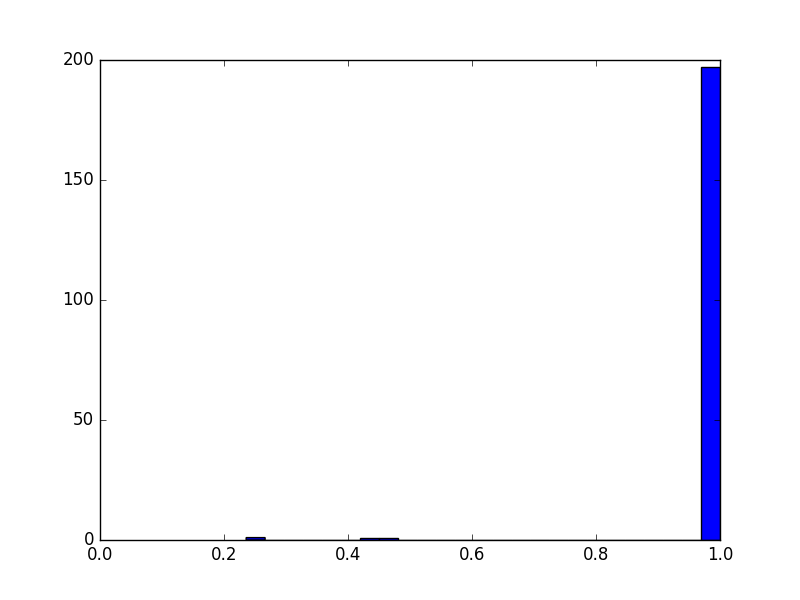
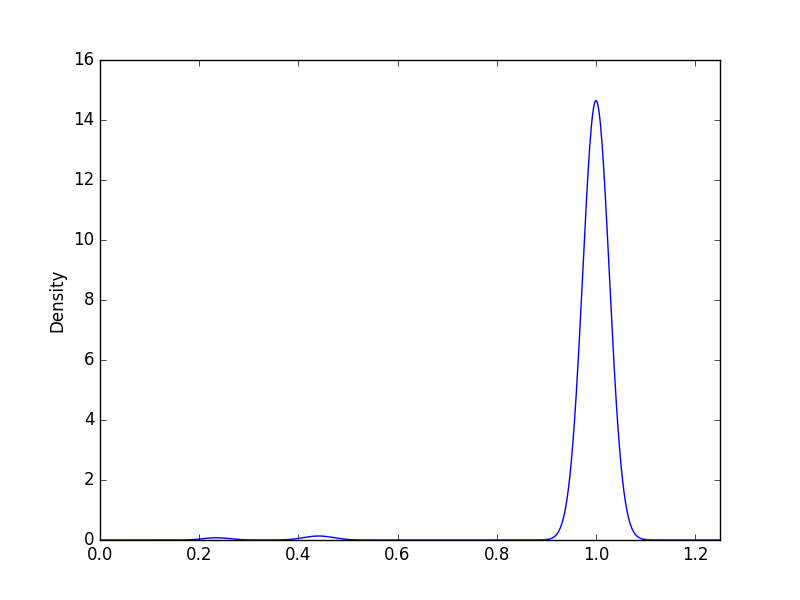
sync

diff --git a/lab/StructuredCode/ids/method/base.py b/lab/StructuredCode/ids/method/base.py
@@ -47,8 +47,6 @@ class imalgo(object):
         if len(labs) != 2:
             raise TypeError('must be 2-classes classification task')
         s.minolab, s.majlab = labs if counts[0] < counts[1] else labs[::-1]
-        s.imr = counts[0] * 1.0 / (counts[0] + counts[1])
-        if sum(counts)==351:
-            pass
-        if s.imr >= 0.5:
-            s.imr = 1 - s.imr
+        s.imr = counts[0] * 1.0 / counts[1]
+        if s.imr < 1:
+            s.imr = 1 / s.imr

diff --git a/lab/StructuredCode/ids/imfeature.py b/lab/StructuredCode/ids/imfeature.py
@@ -47,8 +47,9 @@ class Description(imalgo):
     def describe(s, show_figure=False):
         WBNR = s.small_disjuncts()
         plt.clf()
-        plt.hist(WBNR, bins=25)
-        plt.xlim(0, 1)
+        # plt.hist(WBNR, bins=25)
+        pd.Series(WBNR).plot.kde()
+        plt.xlim(0, 1.25)
         if show_figure:
             plt.show()
         gen_path = lambda o: os.path.join(s.conf['path'], 'lab/results/figures/WBNR/{0}.png'.format(o))
